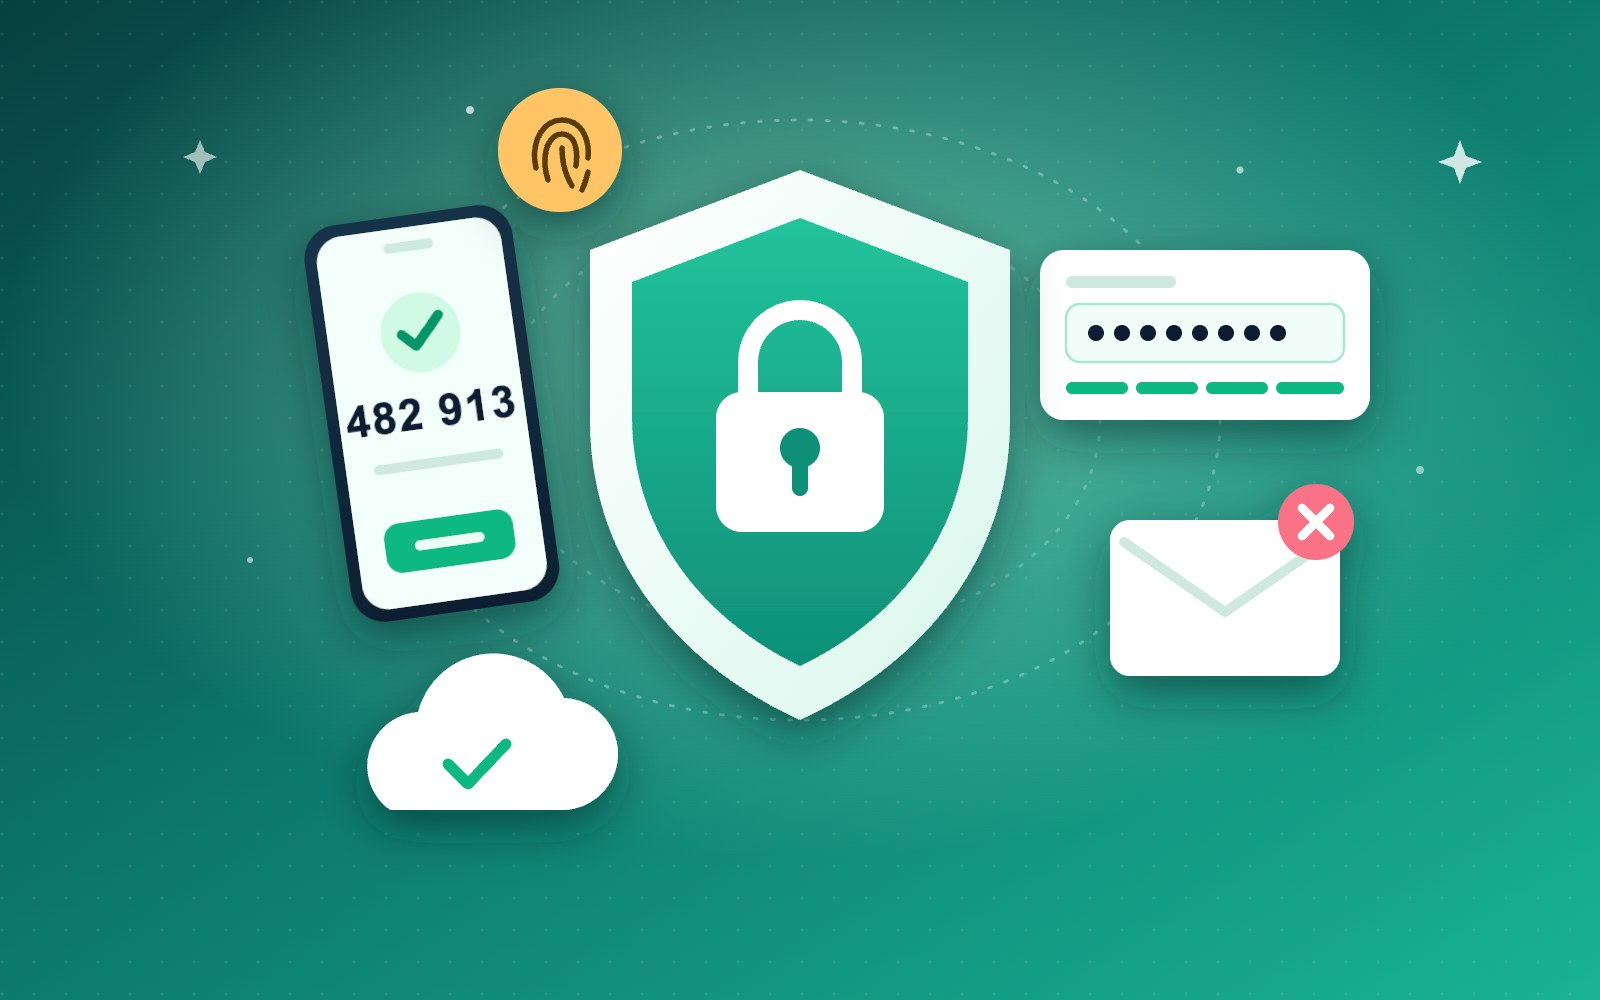
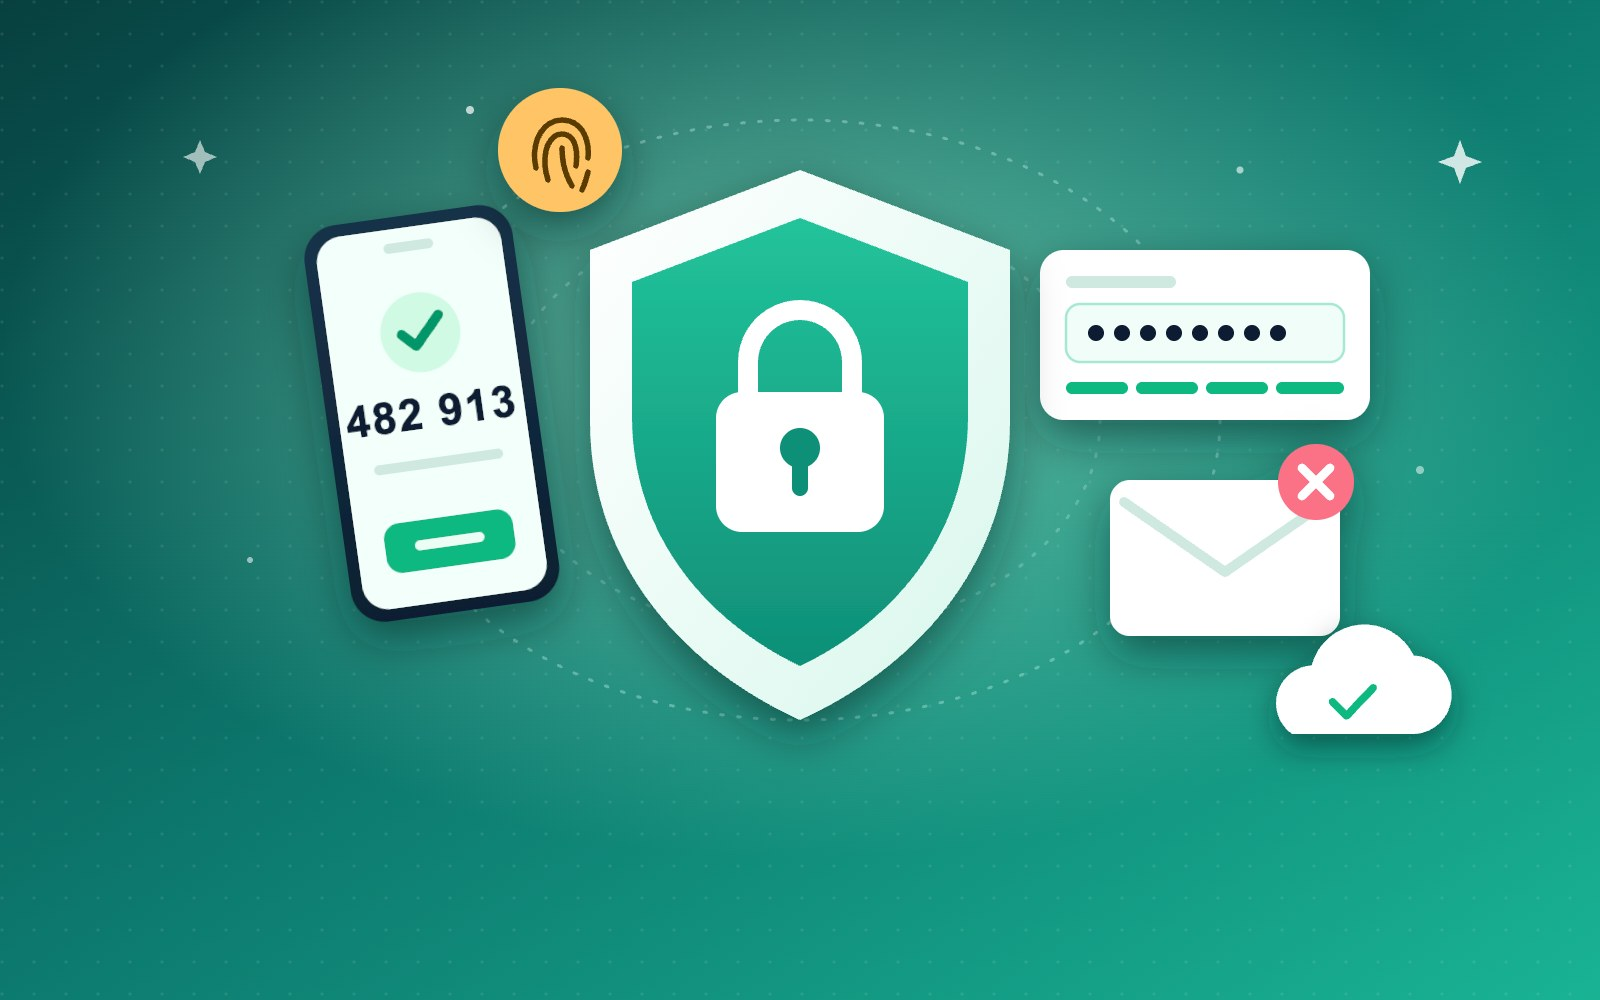
Covers: keep the bottom-left clear for the course title

Changed region(s): [[0.6875, 0.434, 0.9062, 0.775], [0.2188, 0.651, 0.4062, 0.837]]

diff --git a/scripts/course-content/covers/sysadmin-basics.html b/scripts/course-content/covers/sysadmin-basics.html
@@ -48,9 +48,9 @@ svg{display:block}
   <!-- сетевые линии -->
   <g stroke="#9db1ff" stroke-opacity="0.45" stroke-width="3" fill="none" stroke-linecap="round" stroke-dasharray="2 12">
     <path d="M520 470 C 430 470, 400 330, 330 300"/>
-    <path d="M520 560 C 420 580, 400 690, 330 720"/>
+    <path d="M520 560 C 450 560, 430 520, 390 530"/>
     <path d="M1080 330 C 1180 300, 1220 220, 1290 210"/>
-    <path d="M1080 600 C 1190 620, 1220 700, 1290 730"/>
+    <path d="M1080 560 C 1190 560, 1230 620, 1290 630"/>
   </g>
 
   <!-- узлы сети: ноутбук -->
@@ -64,7 +64,7 @@ svg{display:block}
   </g>
 
   <!-- узел: принтер -->
-  <g transform="translate(230 660)" filter="url(#shadow)">
+  <g transform="translate(200 470)" filter="url(#shadow)">
     <rect x="34" y="0" width="112" height="44" rx="6" fill="#ffffff"/>
     <rect x="0" y="34" width="180" height="84" rx="16" fill="#e9ecff"/>
     <rect x="34" y="96" width="112" height="56" rx="6" fill="#ffffff"/>
@@ -89,7 +89,7 @@ svg{display:block}
   </g>
 
   <!-- узел: монитор -->
-  <g transform="translate(1290 650)" filter="url(#shadow)">
+  <g transform="translate(1290 560)" filter="url(#shadow)">
     <rect x="0" y="0" width="200" height="130" rx="14" fill="#e9ecff"/>
     <rect x="12" y="12" width="176" height="96" rx="8" fill="#2a2f6e"/>
     <path d="M40 80 l30 -26 l26 18 l40 -40" fill="none" stroke="#4ade80" stroke-width="7" stroke-linecap="round" stroke-linejoin="round"/>
@@ -166,7 +166,7 @@ svg{display:block}
   </g>
 
   <!-- значок: щит с галочкой -->
-  <g transform="translate(470 760)" filter="url(#shadow)">
+  <g transform="translate(520 170) scale(0.8)" filter="url(#shadow)">
     <path d="M0 -62 L52 -42 V4 C52 40 28 64 0 76 C-28 64 -52 40 -52 4 V-42 Z" fill="#4ade80"/>
     <path d="M-20 4 l14 14 l28 -30" fill="none" stroke="#0f3d24" stroke-width="10" stroke-linecap="round" stroke-linejoin="round"/>
   </g>

diff --git a/scripts/course-content/covers/cifrovaya-gigiena.html b/scripts/course-content/covers/cifrovaya-gigiena.html
@@ -77,7 +77,7 @@ svg{display:block}
   </g>
 
   <!-- письмо-фишинг, перечёркнутое -->
-  <g transform="translate(1110 520)" filter="url(#shadow)">
+  <g transform="translate(1110 480)" filter="url(#shadow)">
     <rect x="0" y="0" width="230" height="156" rx="20" fill="#ffffff"/>
     <path d="M14 22 L115 92 L216 22" fill="none" stroke="#cfe9e1" stroke-width="10" stroke-linecap="round" stroke-linejoin="round"/>
     <g transform="translate(206 2)">
@@ -98,7 +98,7 @@ svg{display:block}
   </g>
 
   <!-- облако с резервной копией -->
-  <g transform="translate(330 690)" filter="url(#shadow)">
+  <g transform="translate(1250 650) scale(0.7)" filter="url(#shadow)">
     <path d="M60 120 h170 a56 56 0 0 0 4 -112 a78 78 0 0 0 -146 14 a54 54 0 0 0 -28 98 z" fill="#ffffff"/>
     <path d="M118 74 l20 20 l38 -40" fill="none" stroke="#10b981" stroke-width="11" stroke-linecap="round" stroke-linejoin="round"/>
   </g>
